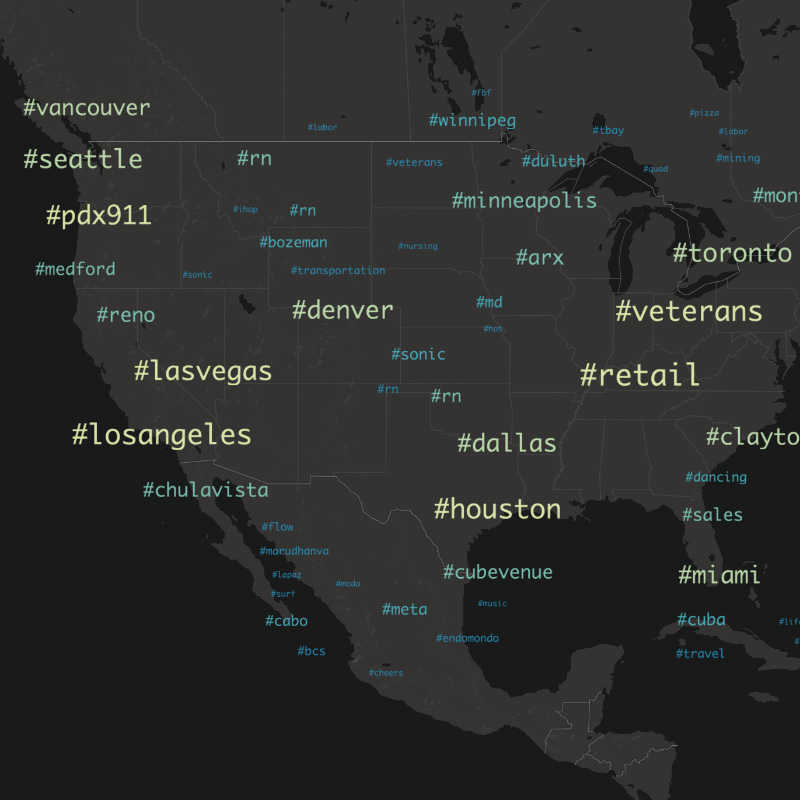
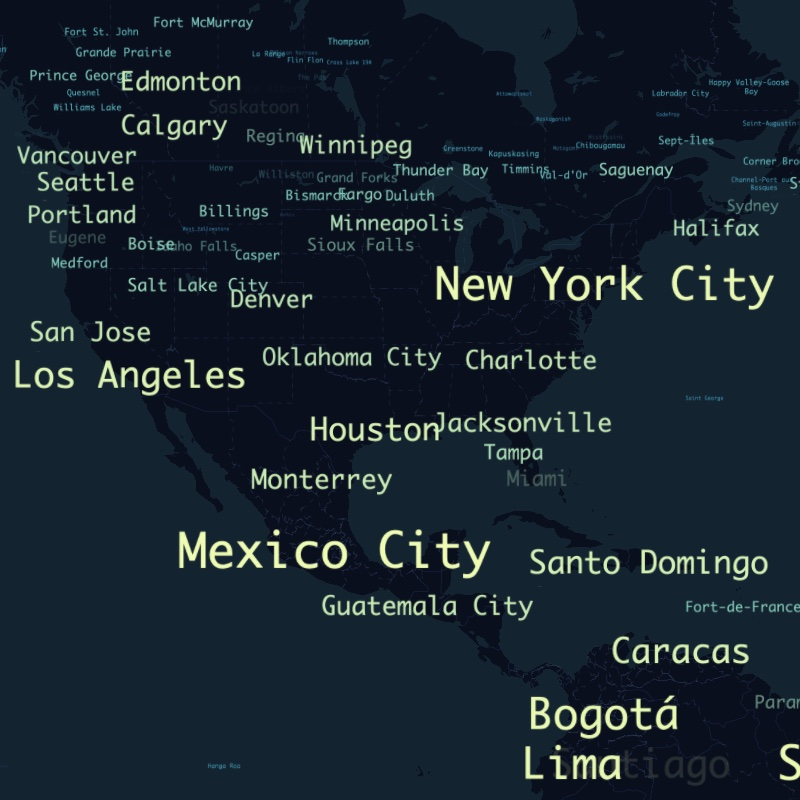
Update text layer example

diff --git a/website/src/examples/text-layer.js b/website/src/examples/text-layer.js
@@ -1,22 +1,22 @@
 import React, {Component} from 'react';
 import {MAPBOX_STYLES, DATA_URI, GITHUB_TREE} from '../constants/defaults';
 import {readableInteger} from '../utils/format-utils';
-import App from 'website-examples/tagmap/app';
+import App from 'website-examples/text/app';
 
 import {makeExample} from '../components';
 
 class TextDemo extends Component {
-  static title = 'Twitter Hashtags';
+  static title = 'World Cities by Population';
 
   static data = {
-    url: `${DATA_URI}/hashtags100k.txt`,
-    worker: '/workers/hashtags-decoder.js'
+    url: `${DATA_URI}/geonames.txt`,
+    worker: '/workers/geonames-decoder.js'
   };
 
-  static code = `${GITHUB_TREE}/examples/website/tagmap`;
+  static code = `${GITHUB_TREE}/examples/website/text`;
 
   static parameters = {
-    cluster: {displayName: 'Dynamic Cluster', type: 'checkbox', value: true},
+    noOverlap: {displayName: 'Prevent overlap', type: 'checkbox', value: true},
     fontSize: {displayName: 'Font Size',
       type: 'range', value: 32, step: 1, min: 20, max: 80}
   };
@@ -26,12 +26,12 @@ class TextDemo extends Component {
   static renderInfo(meta) {
     return (
       <div>
-        <p>Data set from Twitter showing hashtags with geolocation.</p>
+        <p>World cities with population more than 1000</p>
         <p>Data source:
-          <a href="https://developer.twitter.com/">Twitter</a>
+          <a href="https://data.opendatasoft.com/explore/dataset/geonames-all-cities-with-a-population-1000%40public/information/?disjunctive.cou_name_en">GeoNames</a>
         </p>
         <div className="layout">
-          <div className="stat col-1-2">No. of Tweets
+          <div className="stat col-1-2">No. of cities
             <b>{ readableInteger(meta.count || 0) }</b>
           </div>
         </div>
@@ -46,7 +46,7 @@ class TextDemo extends Component {
       <App
         {...this.props}
         data={data}
-        cluster={params.cluster.value}
+        noOverlap={params.noOverlap.value}
         fontSize={params.fontSize.value} />
     );
   }

diff --git a/examples/website/text/app.jsx b/examples/website/text/app.jsx
@@ -36,7 +36,7 @@ const colorScale = scaleLinear().domain([3, 4, 5, 6, 7]).range([
 
 export default function App({
   data,
-  collide = true,
+  noOverlap = true,
   fontSize = 32,
   mapStyle = MAP_STYLE
 }) {
@@ -58,6 +58,7 @@ export default function App({
       buffer: 8
     },
 
+    // TextLayer options
     getText: d => d.name,
     getPosition: d => [d.longitude, d.latitude],
     getColor: d => colorScale(Math.log10(d.population)),
@@ -67,7 +68,8 @@ export default function App({
     sizeMinPixels: sizeMinPixels,
     maxWidth: 64 * 12,
 
-    collideEnabled: collide,
+    // CollideExtension options
+    collideEnabled: noOverlap,
     getCollidePriority: d => Math.log10(d.population),
     collideTestProps: {
       sizeScale: fontSize * 2,

diff --git a/website/static/workers/geonames-decoder.js b/website/static/workers/geonames-decoder.js
@@ -10,16 +10,16 @@ onmessage = function(e) {
     }
 
     const parts = line.split('\x01');
-    if (parts.length < 2) {
+    if (parts.length < 4) {
       return;
     }
 
-    const label = parts[0];
-    const coordinates = decodePolyline(parts[1]);
+    const name = parts[0];
+    const longitude = decodeNumber(parts[1], 90, 32) / 1e4 - 180;
+    const latitude = decodeNumber(parts[2], 90, 32) / 1e4;
+    const population = decodeNumber(parts[3], 90, 32);
 
-    coordinates.forEach(p => {
-      result.push({label, coordinates: p});
-    });
+    result.push({name, longitude, latitude, population});
   });
 
   if (e.data.event === 'load') {
